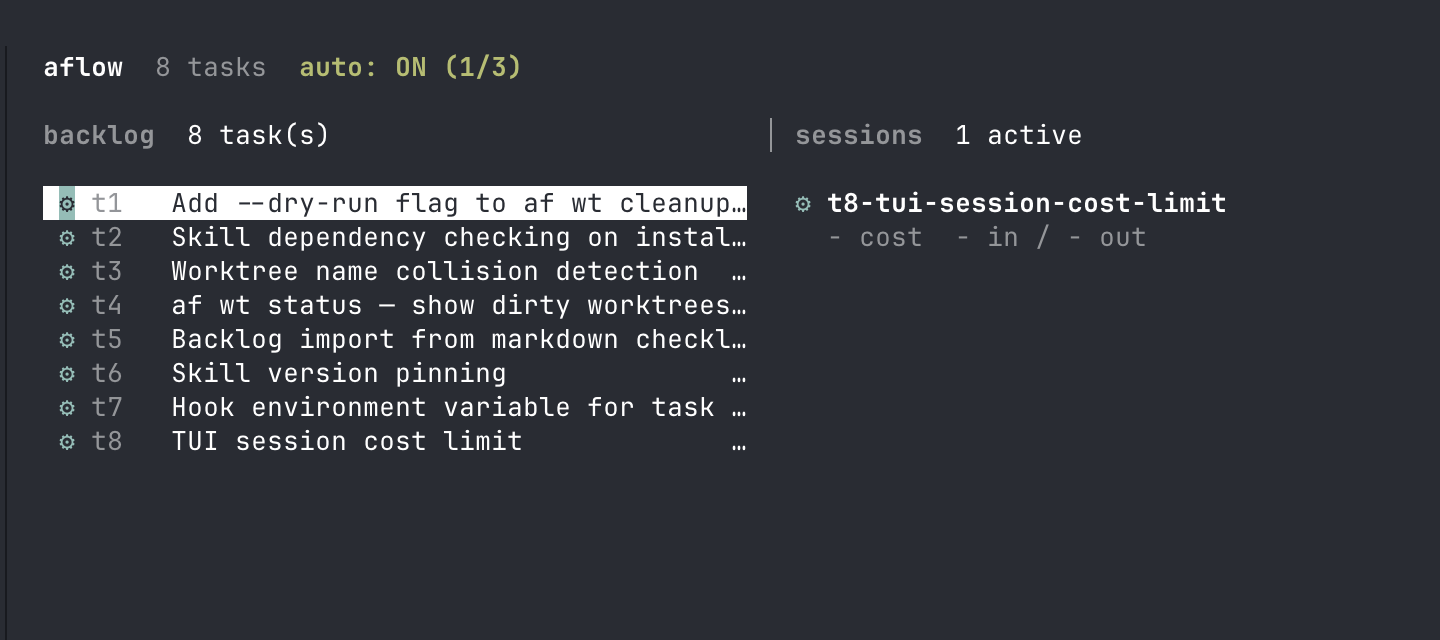
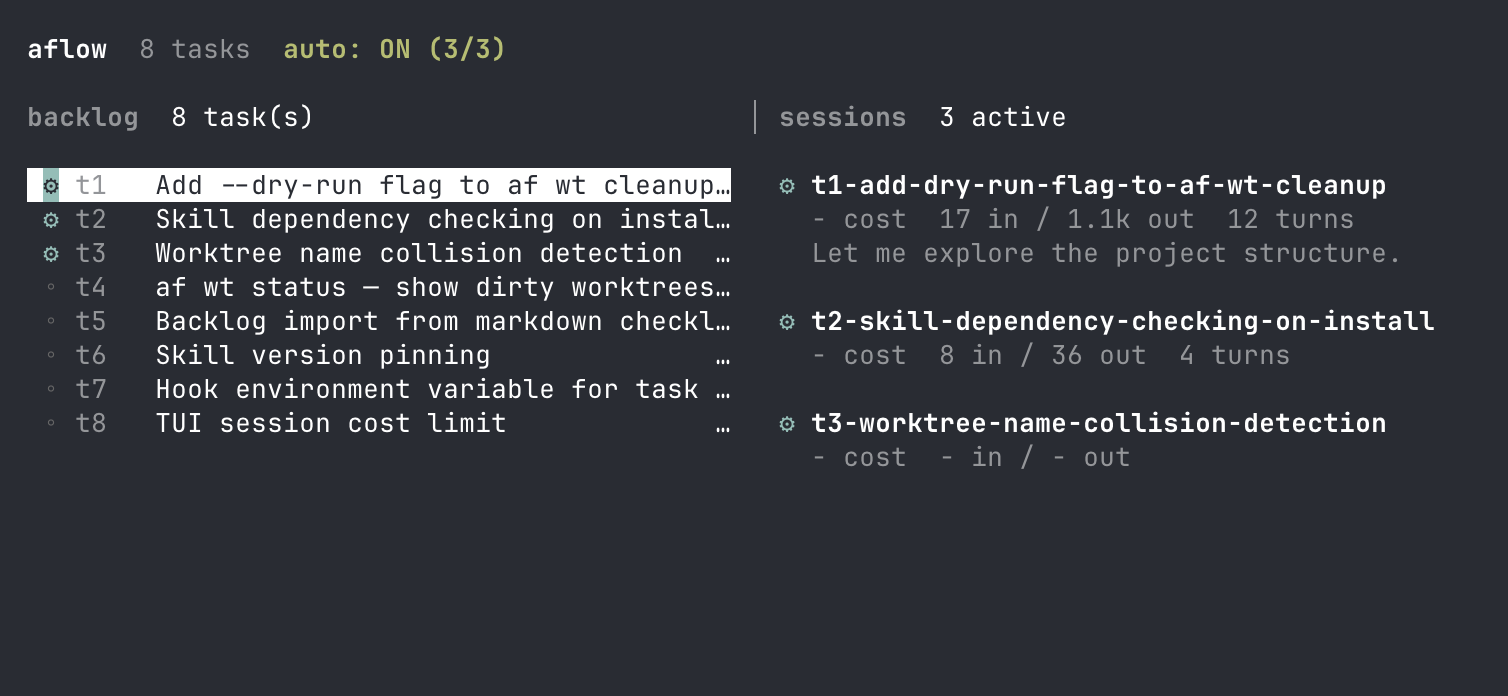
Fix Claude session subprocess spawning in bundled binary
The SDK uses import.meta.url to find its cli.js, which breaks when
bundled by tsup (resolves to dist/index.js instead of the SDK path).
Fix: resolve the system-installed claude binary via `which` and pass
it as pathToClaudeCodeExecutable.

Also updates TUI screenshot with working 3/3 concurrent sessions.

diff --git a/src/tui/session.ts b/src/tui/session.ts
@@ -1,6 +1,18 @@
 import { query } from "@anthropic-ai/claude-agent-sdk";
 import type { SDKMessage, SDKAssistantMessage, SDKResultMessage } from "@anthropic-ai/claude-agent-sdk";
 import { EventEmitter } from "node:events";
+import { execFileSync } from "node:child_process";
+
+/** Find the system-installed Claude Code CLI path.
+ *  When bundled, the SDK can't find its own cli.js (import.meta.url points to
+ *  the bundle). We resolve the user's installed `claude` binary instead. */
+function findClaudeCli(): string | undefined {
+  try {
+    return execFileSync("which", ["claude"], { encoding: "utf-8" }).trim() || undefined;
+  } catch {
+    return undefined;
+  }
+}
 export interface TaskInfo {
   id: string;
   title: string;
@@ -132,6 +144,7 @@ export class Session extends EventEmitter {
       options: {
         abortController: this.abortController,
         cwd: this.worktreePath,
+        pathToClaudeCodeExecutable: findClaudeCli(),
         includePartialMessages: true,
         settingSources: ["project" as any],
         tools: { type: "preset", preset: "claude_code" } as any,
